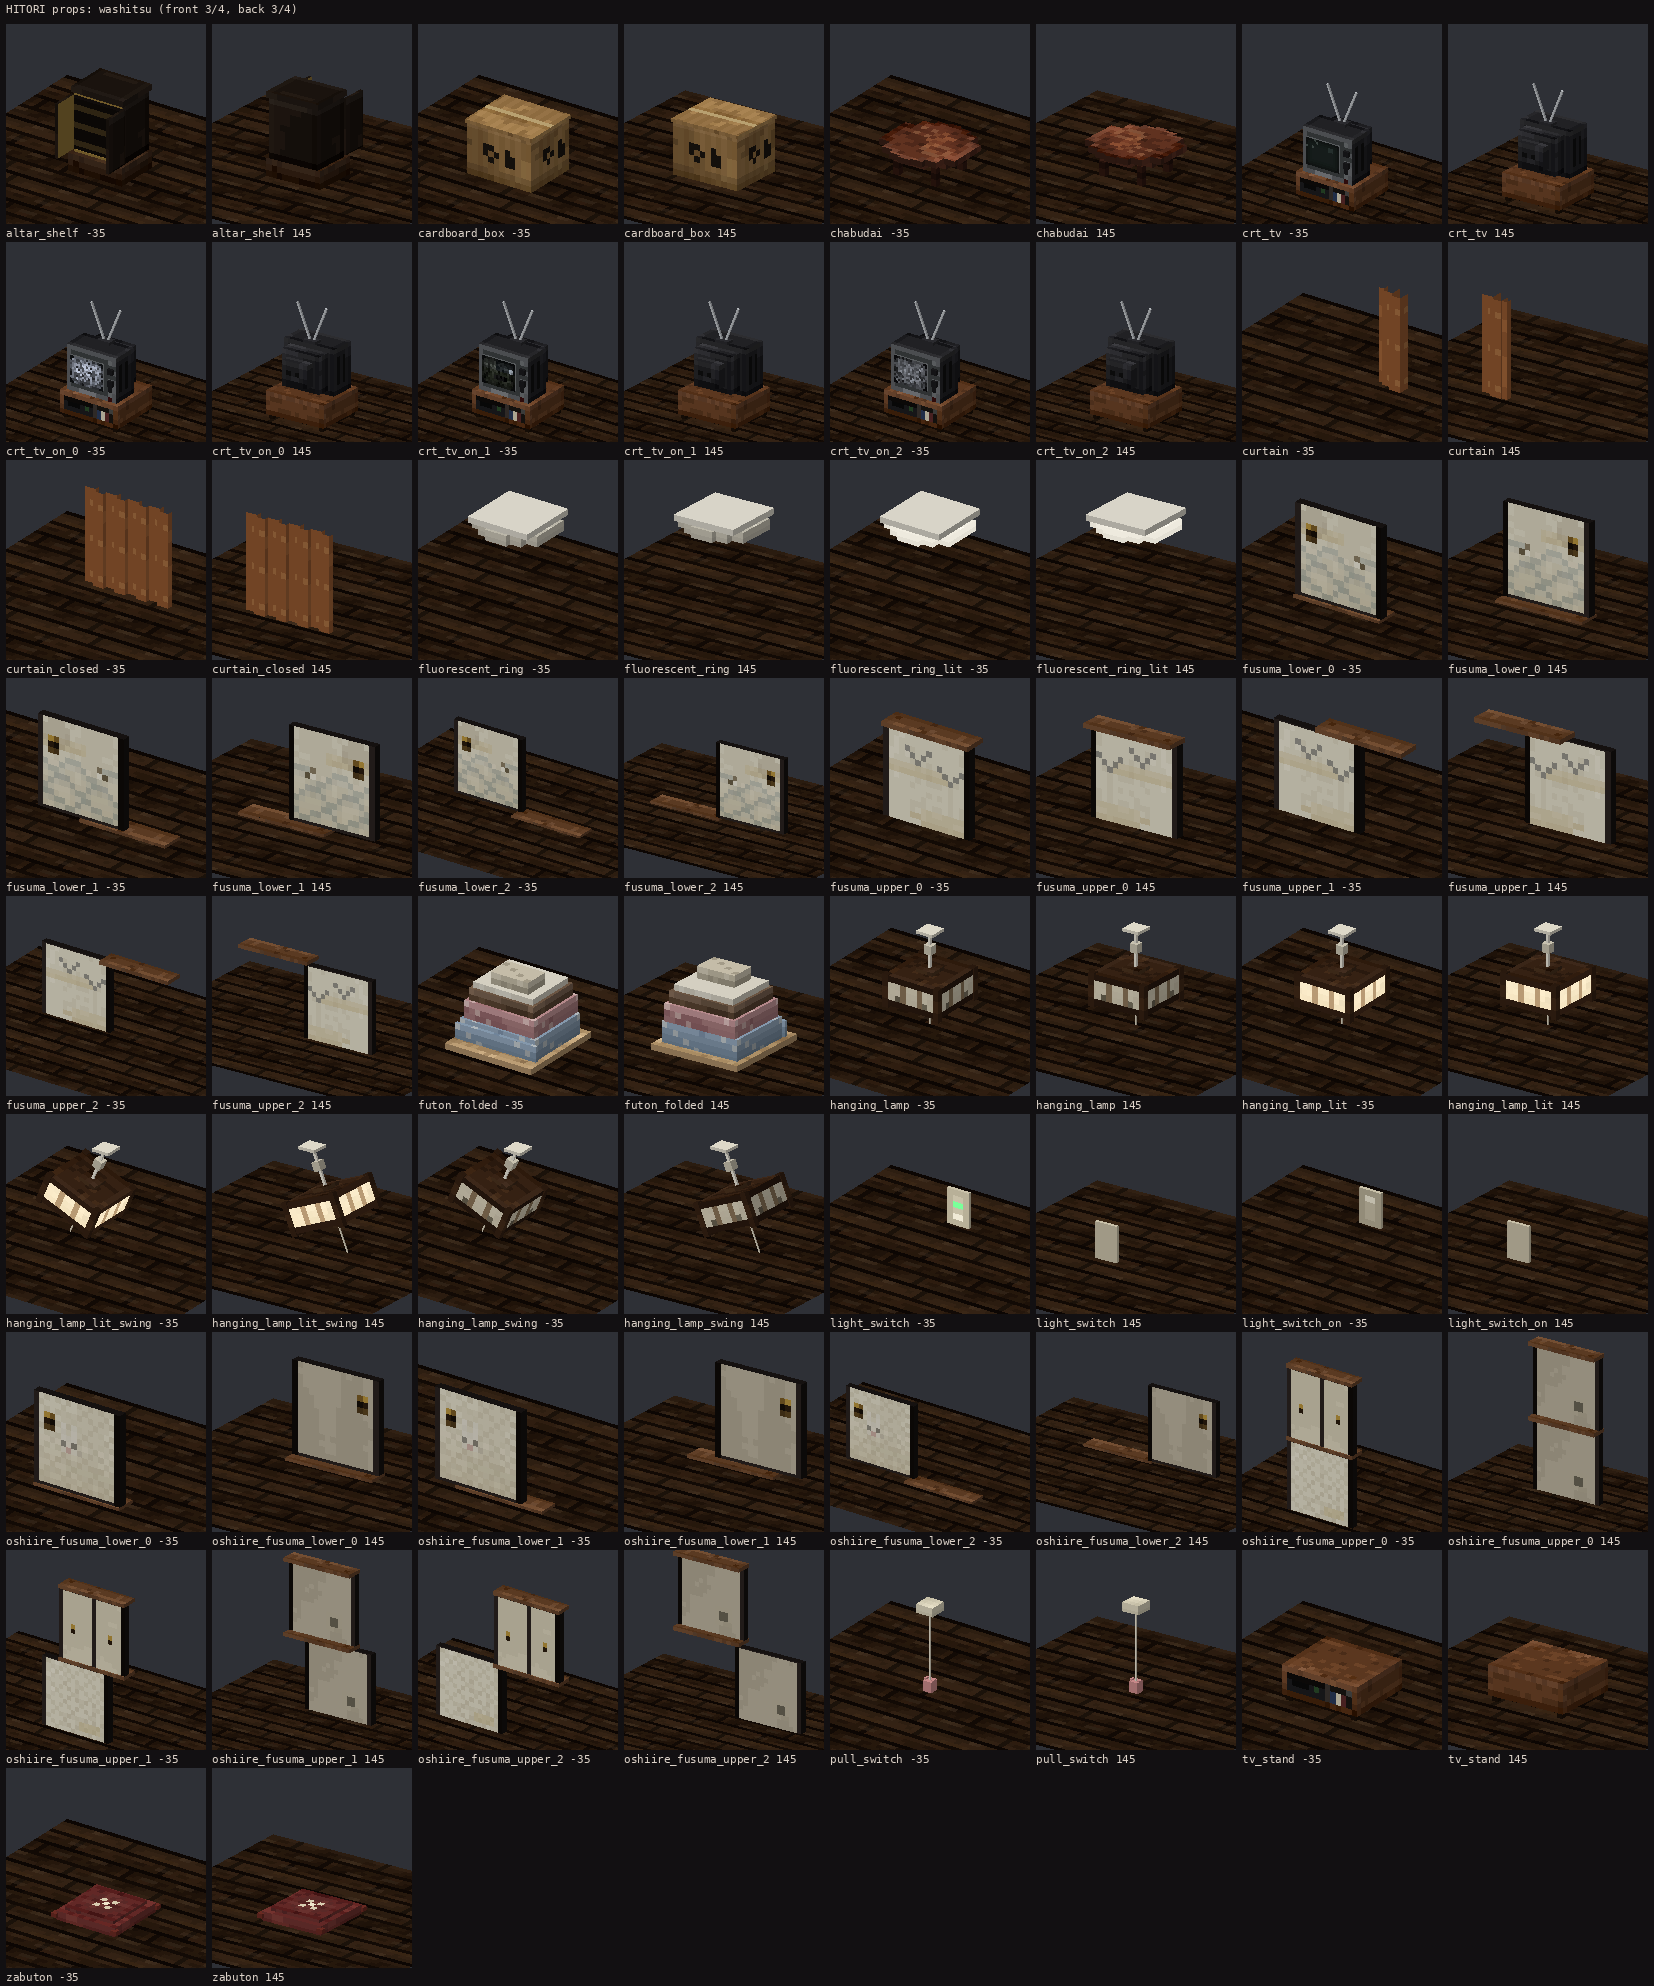
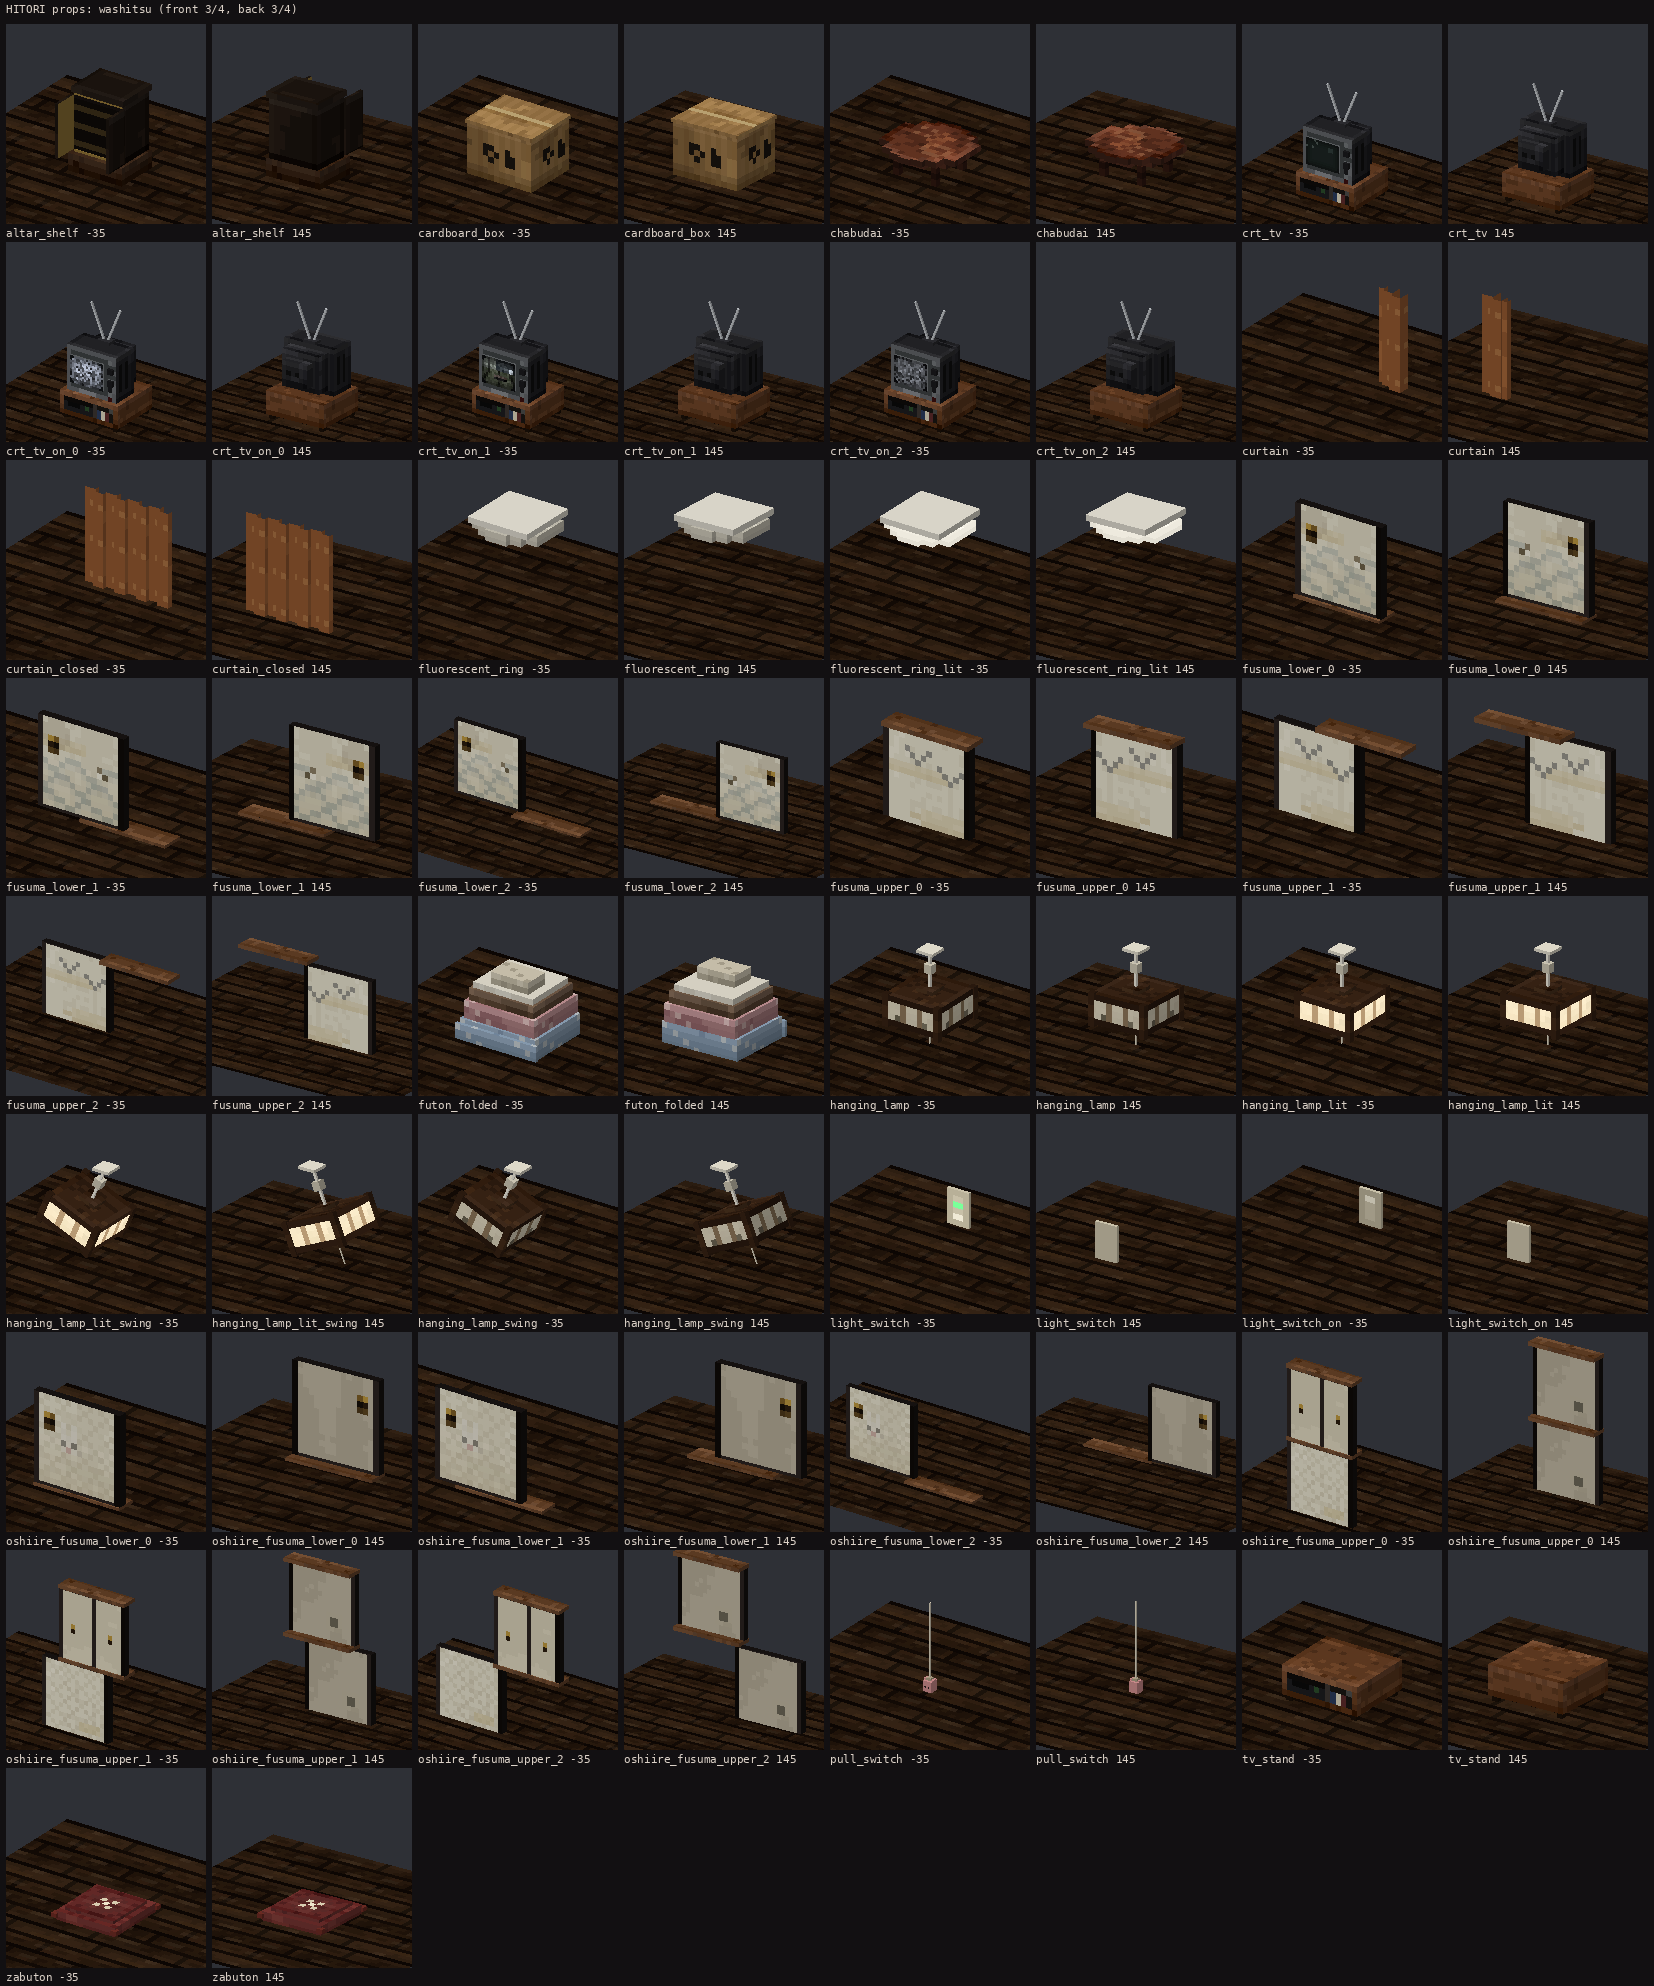
Art: the front door's room number as a vertical wooden plaque 「二〇三」 (every character left-right symmetric, so it reads from both faces of the vanilla door model, which mirrors one side); the unused front_door_inner textures dropped; title-screen and door line-up previews; faded curtain print
Claude-Session: https://claude.ai/code/session_017h8AWA8SMb3MbjFEftA5Gv

diff --git a/tools/art/hk_surfaces.py b/tools/art/hk_surfaces.py
@@ -643,22 +643,30 @@ def _steel_leaf(seed, top):
 
 @door_tex('front_door_top')
 def front_door_top():
+    """Upper half: a weathered vertical wooden plaque (表札) with the room number in kanji, 「二〇三」 stacked - each
+    of the three characters is left-right symmetric, so it reads the same from both faces of a vanilla door (which
+    mirrors its texture on one side); the peephole; a sticker; rust at the top corner."""
     a = _steel_leaf(4101, True)
-    # the nameplate card holder: a dark frame with a cream card and the room number in 3x5 digits ("203")
-    rect(a, 1, 1, 15, 9, '#2a2c26')
-    rect(a, 2, 2, 14, 8, '#d8d2bc')
-    hline(a, 2, 14, 2, '#ece6d0')
-    vline(a, 14, 2, 8, '#b8b29c')
-    stamp_mask(a, text35('203', gap=1), 3, 3, '#1e1a16')
+    rect(a, 5, 1, 9, 15, '#2a1c12')
+    plaque = from_idx(np.full((13, 3), 3.6) + wrapn(4102, beta=1.4, w=16, h=16)[:13, :3] * 0.4,
+                      ramp(['#6a5236', '#806446', '#967856', '#a88a64', '#b89a72', '#c6a880'], 6))
+    a[2:15, 6:9] = plaque
+    INK = '#1a120c'
+    # 二 (rows 2..4), 〇 (rows 6..8), 三 (rows 10..14), 3 px wide, centred on x 7
+    for (x, y) in ((7, 2), (6, 4), (7, 4), (8, 4),
+                   (6, 6), (7, 6), (8, 6), (6, 7), (8, 7), (6, 8), (7, 8), (8, 8),
+                   (6, 10), (7, 10), (8, 10), (7, 12), (6, 14), (7, 14), (8, 14)):
+        px(a, x, y, INK)
+    px(a, 7, 7, '#a88a64')
     # the peephole: chrome ring, dark lens with a glint
-    px(a, 8, 10, '#1a1c1e')
-    px(a, 7, 10, '#a8aeb0')
-    px(a, 9, 10, '#7a8084')
-    px(a, 8, 9, '#c8cdd0')
-    px(a, 8, 11, '#6a7074')
-    # a faded sticker below (NHK-style seal of an inspection, unreadable) and rust at the top corner
-    rect(a, 4, 13, 6, 14, '#a89a7a')
-    px(a, 5, 13, '#8a3a2a')
+    px(a, 12, 9, '#1a1c1e')
+    px(a, 11, 9, '#a8aeb0')
+    px(a, 13, 9, '#7a8084')
+    px(a, 12, 8, '#c8cdd0')
+    px(a, 12, 10, '#6a7074')
+    # a faded sticker (an old inspection seal) and rust at the top corner
+    rect(a, 11, 12, 13, 13, '#a89a7a')
+    px(a, 12, 12, '#8a3a2a')
     px(a, 14, 1, '#6a3a1a')
     px(a, 13, 1, '#7a4a28')
     return a
@@ -687,46 +695,6 @@ def front_door_bottom():
     for xx in (3, 4, 9, 13):
         px(a, xx, 15, '#5a2e14')
     px(a, 4, 14, '#7a4020')
-    return a
-
-
-@door_tex('front_door_inner_top')
-def front_door_inner_top():
-    a = _steel_leaf(4121, True)
-    # peephole, the door chain's slide rail and the chain hanging (latch side right)
-    px(a, 8, 10, '#1a1c1e')
-    px(a, 8, 9, '#c8cdd0')
-    px(a, 7, 10, '#a8aeb0')
-    rect(a, 11, 12, 14, 13, '#9ca2a4')
-    hline(a, 11, 14, 12, '#d0d4d4')
-    for (cx, cy) in ((12, 14), (12, 15)):
-        px(a, cx, cy, '#b8bec0')
-    # a garbage-day schedule sheet taped up (pale paper, coloured rows)
-    rect(a, 3, 3, 8, 8, '#e4e0d0')
-    for yy, c in zip((4, 5, 6, 7), ('#c84a3a', '#3a7ac8', '#3aa04a', '#c8a03a')):
-        px(a, 4, yy, c)
-        hline(a, 5, 7, yy, '#8a8678')
-    px(a, 3, 3, '#c8c4b0')
-    px(a, 8, 3, '#c8c4b0')
-    return a
-
-
-@door_tex('front_door_inner_bottom')
-def front_door_inner_bottom():
-    a = _steel_leaf(4131, False)
-    # lever, thumb-turn of the deadbolt above it, the chain end
-    rect(a, 12, 1, 13, 6, '#2a2c2c')
-    rect(a, 9, 3, 13, 4, '#b8bec0')
-    hline(a, 9, 12, 3, '#e0e4e4')
-    rect(a, 12, 0, 13, 1, '#c8ccce')
-    px(a, 12, 0, '#eef0f0')
-    # the mail box behind the slot (a steel box with a lid)
-    rect(a, 3, 5, 11, 9, '#5f6758')
-    hline(a, 3, 11, 5, '#828b78')
-    hline(a, 3, 11, 9, '#3c4238')
-    rect(a, 5, 6, 9, 6, '#121314')
-    rect(a, 1, 13, 15, 15, '#7e8486')
-    hline(a, 1, 15, 13, '#a6acae')
     return a
 
 
@@ -932,13 +900,14 @@ DOOR_ROWS = ['....KKKKKKKK....',
 
 @item('front_door')
 def front_door_item():
-    L = {'K': '#1e221c', 'f': '#3c4238', 'F': '#5f6758', 's': '#717a69', 'p': '#d8d2bc', 'o': '#1a1c1e',
+    L = {'K': '#1e221c', 'f': '#3c4238', 'F': '#5f6758', 's': '#717a69', 'p': '#717a69', 'o': '#1a1c1e',
          'm': '#121314', 'H': '#d8dcdc', 'h': '#8a9092', 'k': '#8e9496'}
-    rows = [r.replace('pppp', 'pppp') for r in DOOR_ROWS]
-    a = _icon(rows, L)
-    px(a, 7, 3, '#2a2620')
-    px(a, 9, 3, '#2a2620')
-    px(a, 8, 4, '#2a2620')
+    a = _icon(DOOR_ROWS, L)
+    rect(a, 6, 2, 7, 7, '#2a1c12')
+    for yy in (2, 4, 6):
+        px(a, 6, yy, '#a88a64')
+        px(a, 7, yy, '#a88a64')
+    px(a, 9, 4, '#1a1c1e')
     return a
 
 

diff --git a/tools/art/hk_scene.py b/tools/art/hk_scene.py
@@ -553,9 +553,51 @@ def scene_camera_app():
     return pair(feed, lap, 'scene_camera_app')
 
 
+def scene_title():
+    """The title screen as it might look: the logo over a dim, slightly blurred night view of the tatami room."""
+    from PIL import ImageFilter
+    S = full203(lamp_lit=False)
+    S.light(*TV_LIGHT)
+    S.light(*SODIUM)
+    eye, tgt = (4.55, 1.55, 12.45), (1.9, 0.55, 9.0)
+    bg = S.render(eye, tgt, w=960, h=540, night=True, exposure=1.1)
+    im = Image.fromarray(bg.astype(np.uint8)).filter(ImageFilter.GaussianBlur(1.6))
+    bg = np.asarray(im, np.float32) * 0.75
+    logo = Image.open(os.path.join(TEX_ROOT, 'gui', 'title_logo.png')).convert('RGBA').resize((768, 384), Image.BILINEAR)
+    lg = np.asarray(logo, np.float32)
+    x0, y0 = (960 - 768) // 2, 40
+    a = lg[..., 3:4] / 255.0
+    bg[y0:y0 + 384, x0:x0 + 768] = bg[y0:y0 + 384, x0:x0 + 768] * (1 - a) + lg[..., :3] * a
+    return save(bg, 'scene_title')
+
+
+def scene_doors():
+    """Every vanilla-style door of 203 side by side (as the world's door_* models draw them), seen from the hall, with
+    the fusuma and the closet fusuma beside them."""
+    S = Scene()
+    for x in range(-1, 9):
+        S.cube(x, -1, 0, H + 'old_flooring')
+        S.cube(x, -1, -1, H + 'old_flooring')
+        for y in range(0, 3):
+            S.cube(x, y, 1, H + 'plaster_wall', north=H + ('wood_wainscot' if y == 0 else 'plaster_wall'))
+    names = ['front_door', 'interior_door', 'toilet_door', 'bath_door']
+    for i, d in enumerate(names):
+        for k, half in enumerate(('bottom', 'top')):
+            S.extra.append((vanilla_door(f'{d}_{half}'), place_deg(i * 1.5 - 0.5, k, 0, 270)))
+    balcony_pane(S, 6.5, 0, -0.55)
+    S.model('fusuma_lower_0', 7.5, 0, -0.45, 'north') if False else None
+    for k, (nm, x) in enumerate((('fusuma', 7.0), ('oshiire_fusuma', 8.0))):
+        S.model(f'{nm}_lower_0', x, 0, 0, 'north')
+        S.model(f'{nm}_upper_0', x, 1, 0, 'north')
+    S.light((3.5, 2.6, -2.5), (1.0, 0.92, 0.8), 1.4, 5.0)
+    eye, tgt = (3.6, 1.2, -5.6), (3.6, 0.95, 0.5)
+    return pair(S.render(eye, tgt, w=960, h=420, fov=62), S.render(eye, tgt, w=960, h=420, fov=62, night=True,
+                                                                  exposure=1.5), 'scene_doors')
+
+
 SCENES = {'tatami': scene_tatami, 'peek': scene_peek, 'closet': scene_closet, 'bath': scene_bath,
           'kitchen': scene_kitchen, 'western': scene_western, 'genkan': scene_genkan, 'exterior': scene_exterior,
-          'camera_app': scene_camera_app}
+          'camera_app': scene_camera_app, 'title': scene_title, 'doors': scene_doors}
 
 
 def main(args):

diff --git a/tools/art/hk_washitsu.py b/tools/art/hk_washitsu.py
@@ -518,7 +518,7 @@ light_switch(True)
 
 # ================================================================================================ curtain
 A_CUR = Atlas('curtain')
-CURT = ramp(['#3a1c0c', '#562a12', '#6e3a1a', '#844a24', '#97582e', '#a86838'], 6)
+CURT = ramp(['#3a2a1e', '#4e3828', '#634834', '#77583f', '#896a4c', '#9a7a5a'], 6)
 
 
 def _curtain_cloth(w, h, face):
@@ -529,9 +529,9 @@ def _curtain_cloth(w, h, face):
     if face != 'h':
         flower = ((x % 6 == 2) & (y % 6 == 2)) | ((x % 6 == 5) & (y % 6 == 5))
         petal = (((x % 6 == 1) | (x % 6 == 3)) & (y % 6 == 2)) | ((x % 6 == 2) & ((y % 6 == 1) | (y % 6 == 3)))
-        tint(a, '#c8945a', 0.35, petal)
-        tint(a, '#e0b070', 0.45, flower)
-        tint(a, '#d8b080', 0.12)            # sun-faded
+        tint(a, '#b88a5a', 0.3, petal)
+        tint(a, '#d8b07a', 0.4, flower)
+        tint(a, '#c8b498', 0.14)            # sun-faded
     return a
 
 

diff --git a/tools/art/check.py b/tools/art/check.py
@@ -34,7 +34,7 @@ PROPERTY_WORDS = {'on', 'channel', 'lit', 'swing', 'closed', 'water', 'lid', 'ru
 
 # ---------------------------------------------------------------------------------------------- expectations
 VANILLA_DOORS = ['front_door', 'interior_door', 'toilet_door', 'bath_door', 'balcony_door']
-WORLD_EXTRA_TEXTURES = ['front_door_inner_bottom', 'front_door_inner_top']     # optional inner face of the front door
+WORLD_EXTRA_TEXTURES = []
 DOOR_ITEM_SPRITES = VANILLA_DOORS + ['fusuma', 'oshiire_fusuma']
 
 
